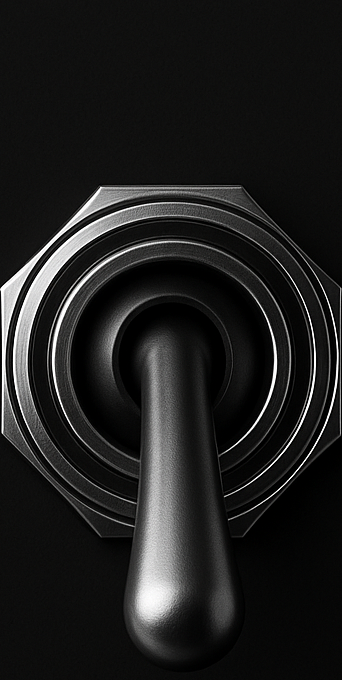
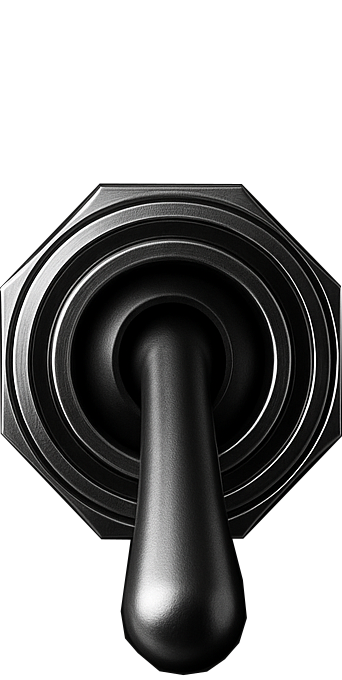
added scaling with scroll

diff --git a/pc_app/widgets/status_panel_composite_widget.py b/pc_app/widgets/status_panel_composite_widget.py
@@ -16,35 +16,31 @@ class StatusPanelCompositeWidget(tk.Canvas):
         panel_path = layout["panel_image"]
         indicators = layout["indicators"]
 
-        # Load rocker images if present
-        self.rocker_up_img = None
-        self.rocker_down_img = None
-        if "rocker_up_image" in layout:
-            rocker_up_path = layout["rocker_up_image"]
-            if os.path.exists(rocker_up_path):
-                self.rocker_up_img = Image.open(rocker_up_path).convert("RGBA")
-        if "rocker_down_image" in layout:
-            rocker_down_path = layout["rocker_down_image"]
-            if os.path.exists(rocker_down_path):
-                self.rocker_down_img = Image.open(rocker_down_path).convert("RGBA")
-
         # Load panel background (with alpha) at its native size
         self.panel_img = Image.open(panel_path).convert("RGBA")
         self.width, self.height = self.panel_img.size
         super().__init__(parent, width=self.width, height=self.height, highlightthickness=0)
 
-        # Load indicator images and positions from JSON
+        # Load indicator images, positions, and scales from JSON
         self.indicator_imgs = {}
         self.positions = {}
+        self.scales = {}
         for key, info in indicators.items():
-            img_path = info["image"]
             pos = tuple(info["position"])
+            scale = info.get("scale", 1.0)
             self.positions[key] = pos
-            if os.path.exists(img_path):
-                img = Image.open(img_path).convert("RGBA")
-                self.indicator_imgs[key] = img
+            self.scales[key] = scale
+            if key == "ROCKER" and "image_up" in info and "image_down" in info:
+                img_up = Image.open(info["image_up"]).convert("RGBA") if os.path.exists(info["image_up"]) else None
+                img_down = Image.open(info["image_down"]).convert("RGBA") if os.path.exists(info["image_down"]) else None
+                self.indicator_imgs[key] = {"up": img_up, "down": img_down}
             else:
-                self.indicator_imgs[key] = None
+                img_path = info["image"]
+                if os.path.exists(img_path):
+                    img = Image.open(img_path).convert("RGBA")
+                    self.indicator_imgs[key] = img
+                else:
+                    self.indicator_imgs[key] = None
 
         self.indicator_state = {k: False for k in self.positions}
         self.composited_img = None
@@ -66,17 +62,28 @@ class StatusPanelCompositeWidget(tk.Canvas):
             self.bind("<Button-1>", self.start_drag)
             self.bind("<B1-Motion>", self.drag)
             self.bind("<ButtonRelease-1>", self.stop_drag)
+            self.bind("<MouseWheel>", self.scale_dragged_indicator)  # Windows
+            self.bind("<Button-4>", self.scale_dragged_indicator)    # Linux scroll up
+            self.bind("<Button-5>", self.scale_dragged_indicator)    # Linux scroll down
 
         self.draw_panel()
 
     def start_drag(self, event):
         # Find which indicator was clicked
         for key, pos in self.positions.items():
-            if self.indicator_imgs[key]:
+            img = None
+            scale = self.scales.get(key, 1.0)
+            if key == "ROCKER" and isinstance(self.indicator_imgs[key], dict):
+                state = self.indicator_state[key]
+                img = self.indicator_imgs[key]["up"] if state else self.indicator_imgs[key]["down"]
+            else:
                 img = self.indicator_imgs[key]
+            if img:
+                # Apply scale to image size
+                w, h = int(img.width * scale), int(img.height * scale)
                 x, y = pos
-                if (x <= event.x <= x + img.width and 
-                    y <= event.y <= y + img.height):
+                if (x <= event.x <= x + w and 
+                    y <= event.y <= y + h):
                     self.dragging = True
                     self.current_key = key
                     self.start_x = event.x - x
@@ -94,28 +101,60 @@ class StatusPanelCompositeWidget(tk.Canvas):
         self.dragging = False
         self.current_key = None
 
+    def scale_dragged_indicator(self, event):
+        if self.dragging and self.current_key:
+            key = self.current_key
+            # MouseWheel event: event.delta (Windows), Button-4/5: event.num (Linux)
+            delta = 0
+            if hasattr(event, 'delta') and event.delta:
+                delta = event.delta
+            elif hasattr(event, 'num'):
+                if event.num == 4:
+                    delta = 120
+                elif event.num == 5:
+                    delta = -120
+            # Adjust scale
+            scale = self.scales.get(key, 1.0)
+            if delta > 0:
+                scale *= 1.1
+            elif delta < 0:
+                scale /= 1.1
+            scale = max(0.1, min(5.0, scale))  # Clamp scale
+            self.scales[key] = scale
+            self.draw_panel()
+
     def save_positions(self):
         # Load current layout
         with open(self.layout_json_path, "r") as f:
             layout = json.load(f)
         
-        # Update positions
+        # Update positions and scales
         for key, pos in self.positions.items():
             layout["indicators"][key]["position"] = list(pos)
+            layout["indicators"][key]["scale"] = self.scales.get(key, 1.0)
         
         # Save updated layout
         with open(self.layout_json_path, "w") as f:
             json.dump(layout, f, indent=4)
         
-        print("Positions saved successfully!")
+        print("Positions and scales saved successfully!")
 
     def draw_panel(self):
         base = self.panel_img.copy()
         for key, state in self.indicator_state.items():
-            if state and self.indicator_imgs[key]:
-                x, y = self.positions[key]
-                ind_img = self.indicator_imgs[key]
-                base.alpha_composite(ind_img, (x, y))
+            x, y = self.positions[key]
+            scale = self.scales.get(key, 1.0)
+            if key == "ROCKER" and isinstance(self.indicator_imgs[key], dict):
+                img = self.indicator_imgs[key]["up"] if state else self.indicator_imgs[key]["down"]
+                if img:
+                    w, h = int(img.width * scale), int(img.height * scale)
+                    img_resized = img.resize((w, h), Image.LANCZOS)
+                    base.alpha_composite(img_resized, (x, y))
+            elif state and self.indicator_imgs[key]:
+                img = self.indicator_imgs[key]
+                w, h = int(img.width * scale), int(img.height * scale)
+                img_resized = img.resize((w, h), Image.LANCZOS)
+                base.alpha_composite(img_resized, (x, y))
         self.composited_img = base
         self.tk_img = ImageTk.PhotoImage(self.composited_img)
         if self.image_id is None:
@@ -139,9 +178,11 @@ class StatusPanelCompositeWidget(tk.Canvas):
         cycle = itertools.cycle(keys)
         def step():
             for k in keys:
-                self.indicator_state[k] = True
-            k = next(cycle)
-            self.indicator_state[k] = True
+                if k == "ROCKER":
+                    # Toggle rocker state each time
+                    self.indicator_state[k] = not self.indicator_state[k]
+                else:
+                    self.indicator_state[k] = True
             self.draw_panel()
             self.after(interval, step)
         step()
@@ -158,6 +199,9 @@ class StatusPanelCompositeWidget(tk.Canvas):
                 self.bind("<Button-1>", self.start_drag)
                 self.bind("<B1-Motion>", self.drag)
                 self.bind("<ButtonRelease-1>", self.stop_drag)
+                self.bind("<MouseWheel>", self.scale_dragged_indicator)  # Windows
+                self.bind("<Button-4>", self.scale_dragged_indicator)    # Linux scroll up
+                self.bind("<Button-5>", self.scale_dragged_indicator)    # Linux scroll down
             else:
                 # Remove save button
                 if hasattr(self, 'save_button'):
@@ -166,6 +210,9 @@ class StatusPanelCompositeWidget(tk.Canvas):
                 self.unbind("<Button-1>")
                 self.unbind("<B1-Motion>")
                 self.unbind("<ButtonRelease-1>")
+                self.unbind("<MouseWheel>")
+                self.unbind("<Button-4>")
+                self.unbind("<Button-5>")
 
 def main():
     root = tk.Tk()
